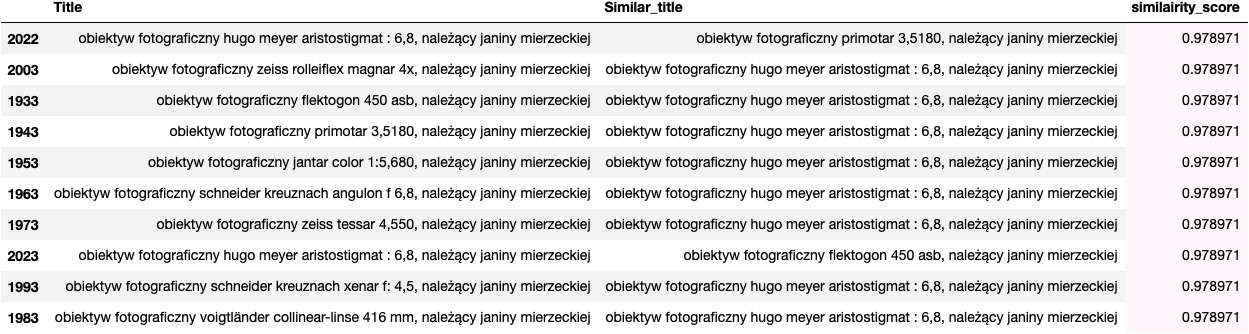
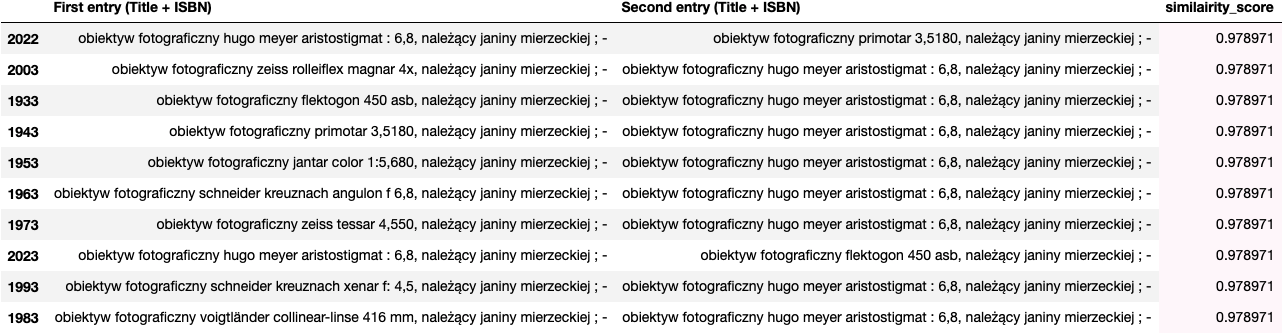
Adjust png

diff --git a/tools/transform_text_to_vectors.py b/tools/transform_text_to_vectors.py
@@ -14,6 +14,8 @@ from scipy.sparse import csr_matrix
 CSV_FILES_PATH = "../data/csv/*.csv"
 TFIDF_VECTORIZER= TfidfVectorizer(ngram_range=(1,2), max_df=0.9, min_df=5, token_pattern='(\S+)')
 SIMILARITY_SCORE = 'similairity_score'
+MAX_SIMILARITY_SCORE = 0.9999
+MIN_SIMILARITY_SCORE = 0.9
 
 def main():
     files = glob.glob(CSV_FILES_PATH)
@@ -38,15 +40,16 @@ def main():
 
         # Getting matches DataFrame
         start_time = time.time()
-        matches_df = get_matches_df(matches, df['title'], top=3000)
+        matches_df = get_matches_df(matches, df['title'], df['isbn'], top=3000)
         end_time = time.time() - start_time
         print("Finished getting matches DataFrame in: ", end_time)
 
-        # Remove all exact matches - final DataFrame
-        matches_df = matches_df[matches_df[SIMILARITY_SCORE] < 0.99999]
-        
+        # Remove all matches outside similarity threshold -> final DataFrame
+        final_data_frame = matches_df[matches_df[SIMILARITY_SCORE] > MIN_SIMILARITY_SCORE]
+        final_data_frame = matches_df[matches_df[SIMILARITY_SCORE] < MAX_SIMILARITY_SCORE]
+    
         # Getting top 10 matches
-        top_10_matches = matches_df.sort_values(by=SIMILARITY_SCORE, ascending=False).head(10)
+        top_10_matches = final_data_frame.sort_values(by=SIMILARITY_SCORE, ascending=False).head(10)
         
         # Saving top 10 matches as png file
         save_table_image(top_10_matches, os.path.basename(file).split('.')[0])
@@ -77,7 +80,7 @@ def cosine_similarity(A, B, ntop, lower_bound=0):
             indptr, indices, data)
     return csr_matrix((data,indices,indptr),shape=(M,N))
 
-def get_matches_df(sparse_matrix, name_vector, top=100):
+def get_matches_df(sparse_matrix, name_vector, isbn, top=100):
     non_zeros = sparse_matrix.nonzero()
     
     sparserows = non_zeros[0]
@@ -93,13 +96,19 @@ def get_matches_df(sparse_matrix, name_vector, top=100):
     similairity = np.zeros(nr_matches)
     
     for index in range(0, nr_matches):
-        left_side[index] = name_vector[sparserows[index]]
-        right_side[index] = name_vector[sparsecols[index]]
+        left_side[index] = name_vector[sparserows[index]] + " ; " + get_isbn_value(isbn[sparserows[index]])
+        right_side[index] = name_vector[sparsecols[index]] + " ; " + get_isbn_value(isbn[sparserows[index]])
         similairity[index] = sparse_matrix.data[index]
     
-    return pd.DataFrame({'Title': left_side,
-                          'Similar_title': right_side,
+    return pd.DataFrame({'First entry (Title + ISBN)': left_side,
+                          'Second entry (Title + ISBN)': right_side,
                            SIMILARITY_SCORE: similairity})
+    
+def get_isbn_value(isbn):
+    return '-' if is_nan(isbn) else str(isbn)
+    
+def is_nan(string):
+    return string != string
     
 def save_table_image(data_frame, file_name):
     df_styled = data_frame.style.background_gradient()
